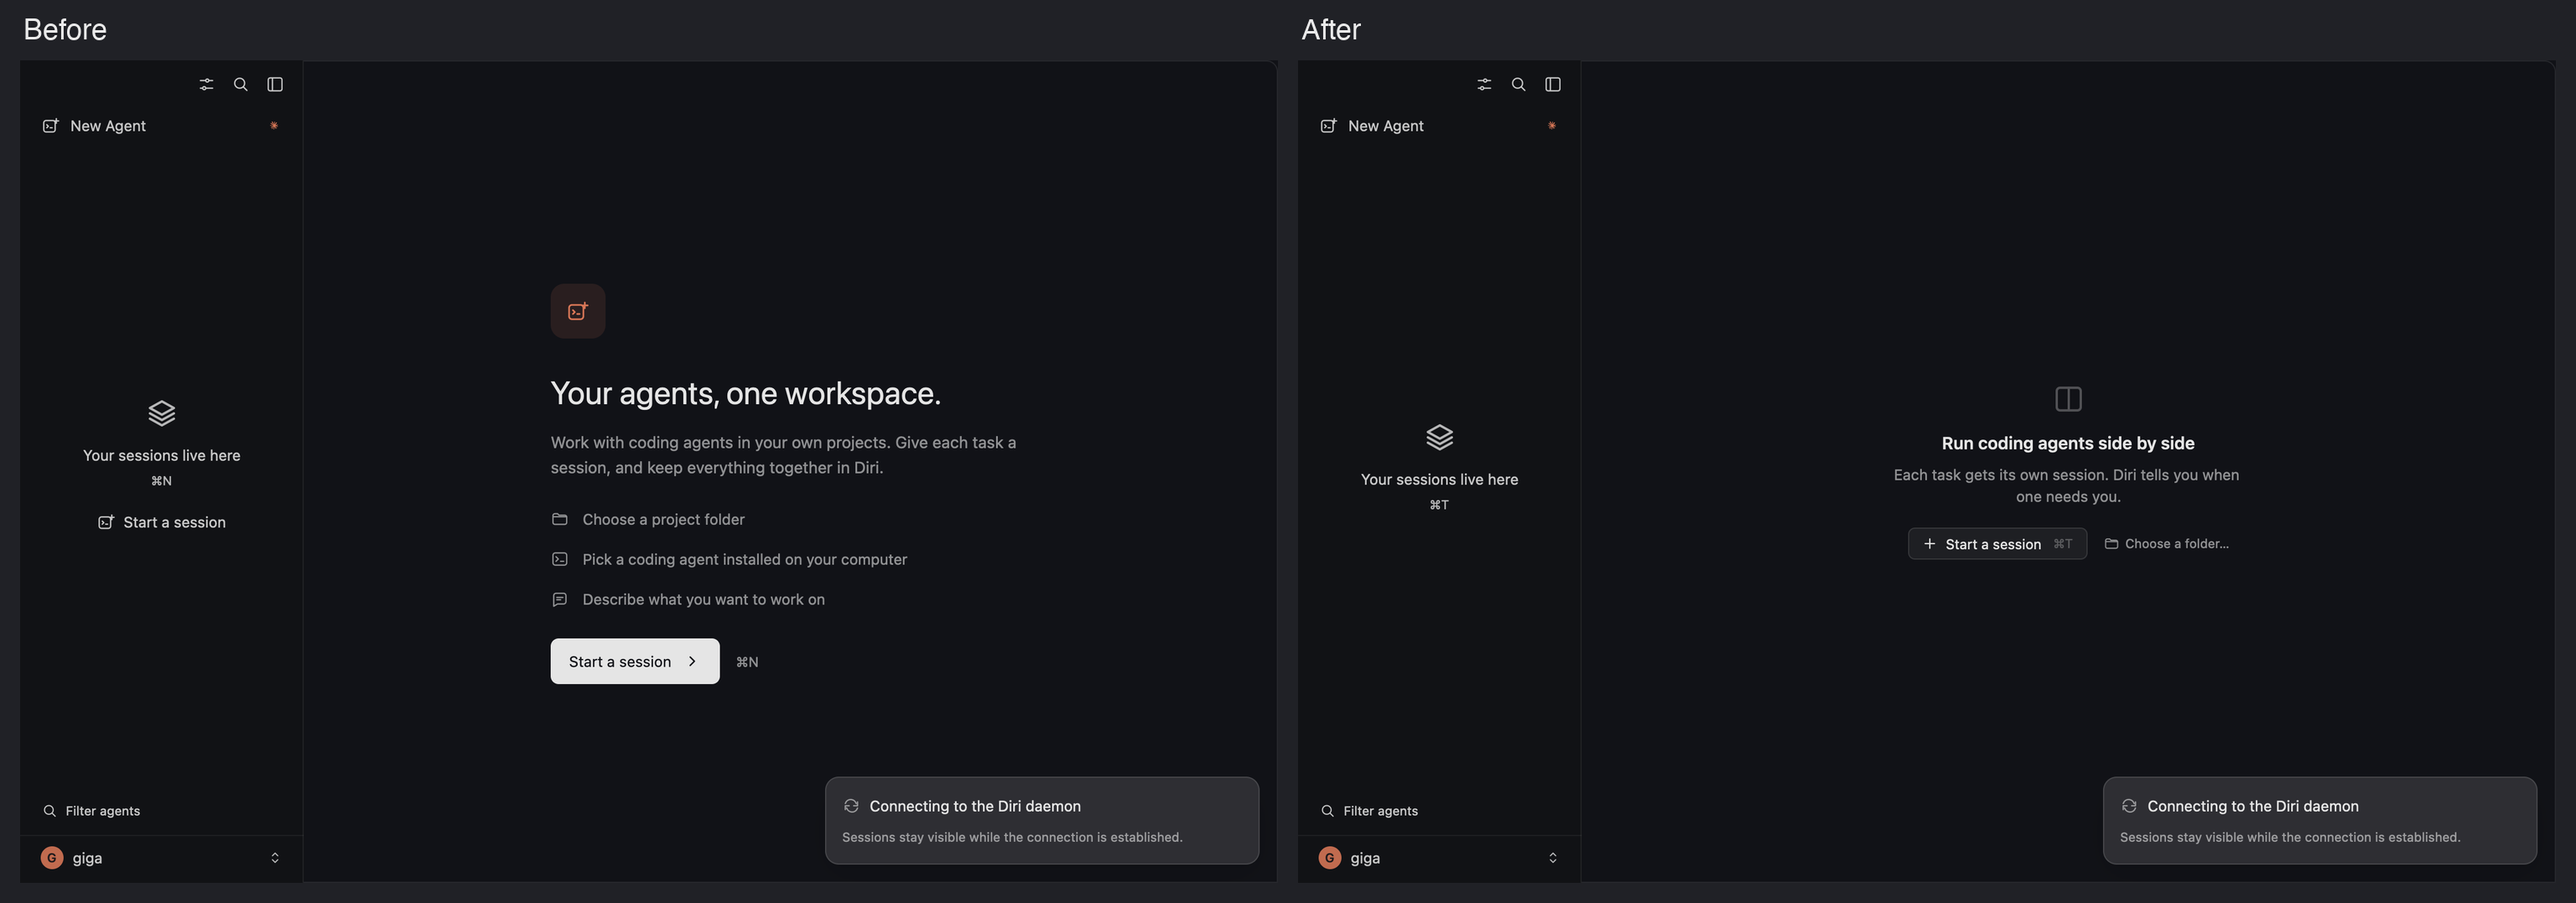
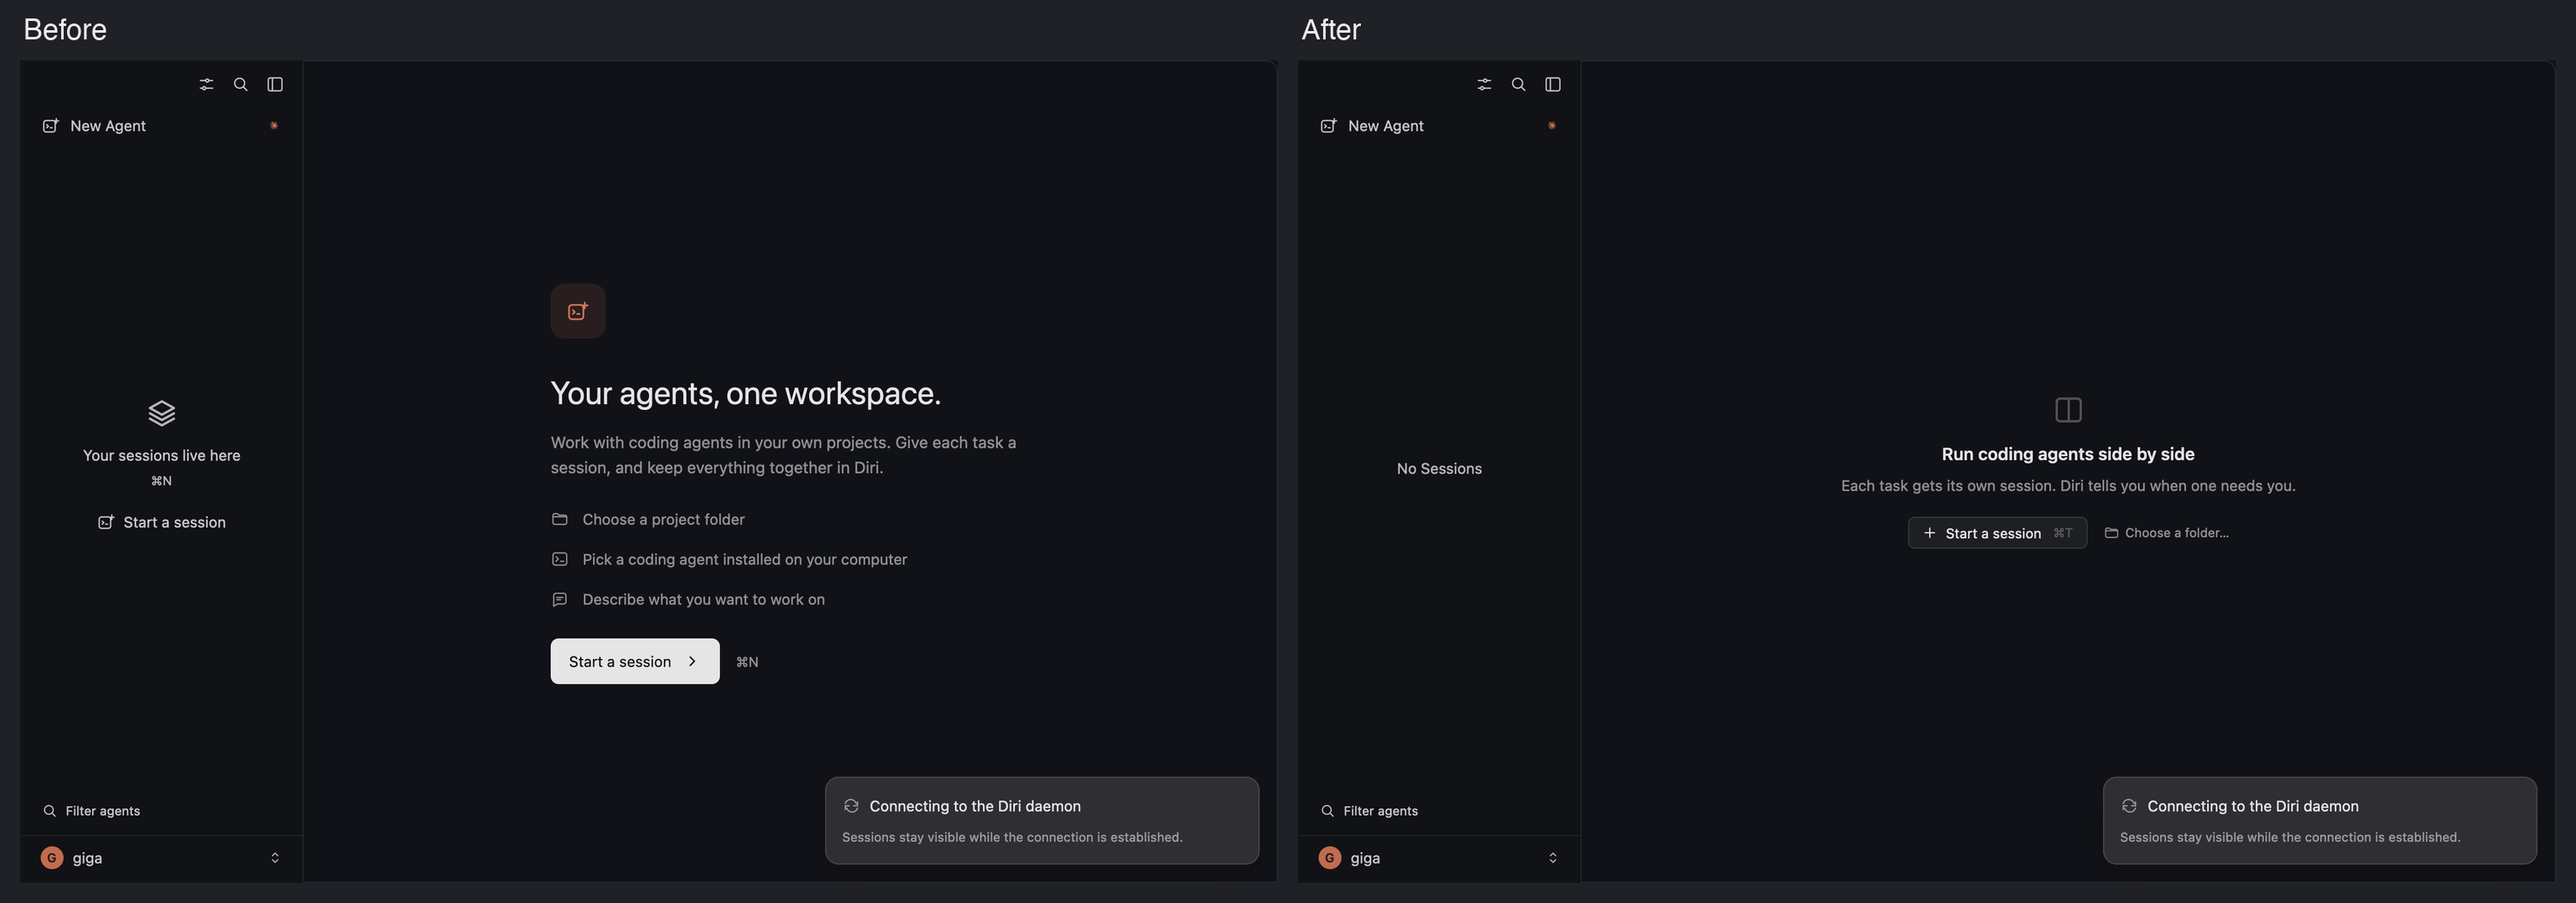
Quiet the sidebar's empty state to "No Sessions"
A large stack icon, "Your sessions live here", and a lone shortcut floated
in the middle of an otherwise clean sidebar, competing with the main pane
that already explains and offers the action. An empty macOS sidebar says so
and nothing more. The area still accepts a dropped folder.

The pane's one sentence also gets room to stay on one line.

Changed region(s): [[0.7188, 0.429, 0.875, 0.6128], [0.5312, 0.4903, 0.5938, 0.5515]]

diff --git a/diri/crates/diri-app/src/sidebar/view.rs b/diri/crates/diri-app/src/sidebar/view.rs
@@ -2278,18 +2278,17 @@ impl Sidebar {
             .into_any_element()
     }
 
-    /// Names the place and the shortcut, and leaves the button to the main
-    /// pane: with no sessions its empty state is always beside this one, and
-    /// two "Start a session" controls a few hundred points apart read as a bug.
+    /// A sidebar with nothing in it says so and nothing more, the way Finder
+    /// and Mail do. The main pane beside it carries the explanation and the
+    /// button; an icon, a slogan and a stray shortcut here only competed with
+    /// it. The whole area still accepts a dropped folder.
     fn empty_state(&self, colors: SemanticColors, cx: &mut Context<Self>) -> AnyElement {
         div()
             .id("sidebar-empty-state")
             .flex_1()
             .flex()
-            .flex_col()
             .items_center()
             .justify_center()
-            .gap(px(12.0))
             .rounded(px(Radius::PANEL))
             .drag_over::<ExternalPaths>(move |element, paths, _, _| {
                 if Self::can_accept_external_drop(paths, ExternalDropTarget::EmptySpace) {
@@ -2305,30 +2304,11 @@ impl Sidebar {
                 cx.stop_propagation();
                 this.external_drop(paths, ExternalDropTarget::EmptySpace, cx);
             }))
-            .child(sf_symbol("square.stack.3d.up", 28.0, colors.tertiary))
             .child(
                 div()
-                    .flex()
-                    .flex_col()
-                    .items_center()
-                    .gap(px(3.0))
-                    .child(
-                        div()
-                            .text_size(px(Typo::ROW_EMPHASIZED.size))
-                            .font_weight(Typo::ROW_EMPHASIZED.weight)
-                            .text_color(colors.secondary)
-                            .child("Your sessions live here"),
-                    )
-                    .child(
-                        div()
-                            .text_size(px(Typo::META.size))
-                            .text_color(colors.tertiary)
-                            .child(
-                                crate::commands::command(CommandId::NewDefaultSession)
-                                    .shortcut_label()
-                                    .unwrap_or_default(),
-                            ),
-                    ),
+                    .text_size(px(Typo::ROW.size))
+                    .text_color(colors.tertiary)
+                    .child("No Sessions"),
             )
             .into_any_element()
     }

diff --git a/diri/crates/diri-app/src/empty_workbench.rs b/diri/crates/diri-app/src/empty_workbench.rs
@@ -71,7 +71,7 @@ pub(crate) fn render(
 fn column() -> Div {
     div()
         .w_full()
-        .max_w(px(320.0))
+        .max_w(px(440.0))
         .flex_none()
         .flex()
         .flex_col()
@@ -107,7 +107,7 @@ fn heading(
                 )
                 .child(
                     div()
-                        .max_w(px(340.0))
+                        .max_w(px(440.0))
                         .text_center()
                         .text_size(px(Typo::ROW.size))
                         .line_height(px(19.0))
@@ -142,13 +142,15 @@ fn welcome(state: &EmptyWorkbench, actions: &EmptyWorkbenchActions, colors: Sema
             "Install a coding agent to get started.",
             colors,
         ))
-        .child(setup_list(
+        // The sentence above may run wide; the list stays the width of a
+        // Settings group so its Install buttons sit near their names.
+        .child(div().w_full().max_w(px(320.0)).child(setup_list(
             "welcome",
             candidates,
             state.installing.as_ref(),
             colors,
             &actions.install,
-        ))
+        )))
         .child(
             div()
                 .flex()
